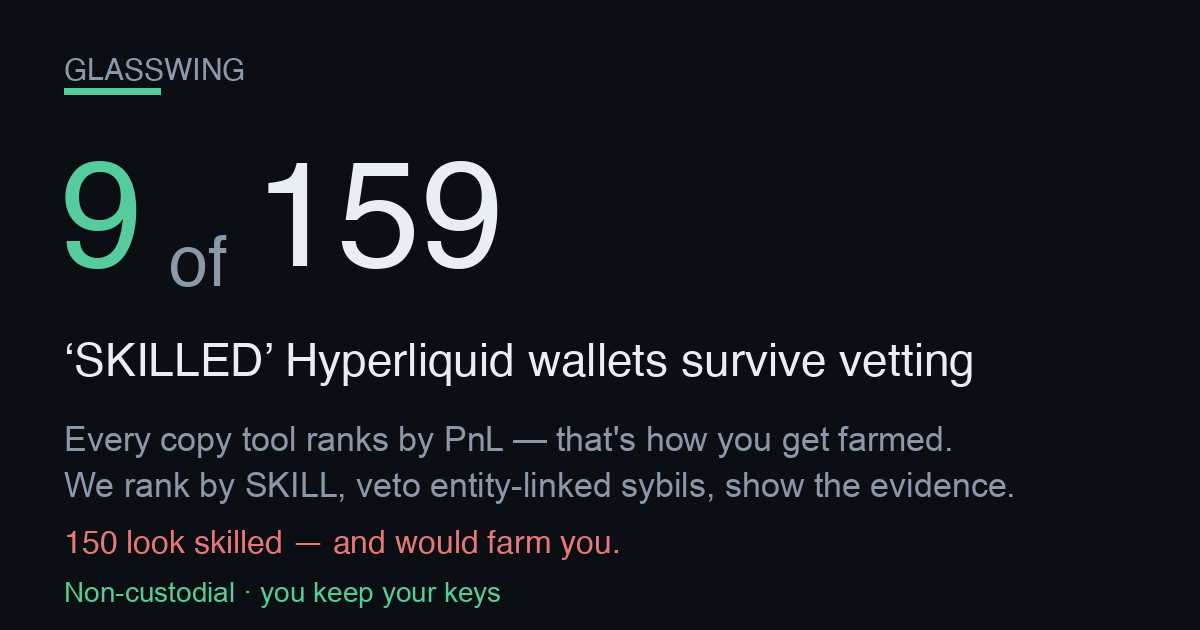
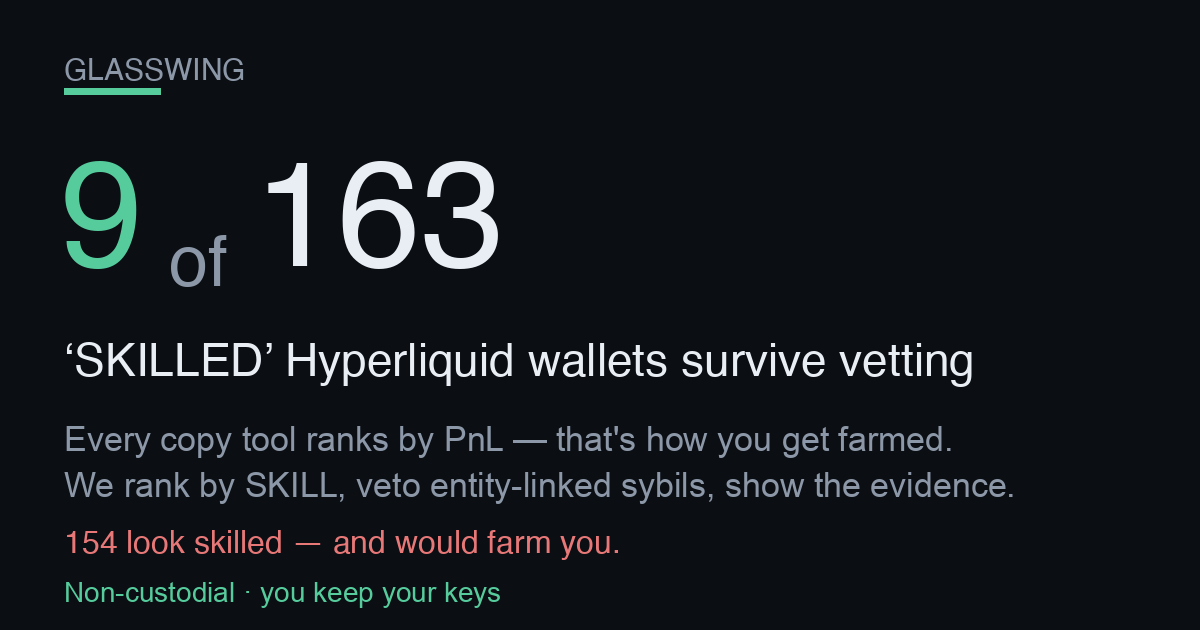
publish funnel 2026-08-06T07:08:23Z

Changed region(s): [[0.2775, 0.2413, 0.4317, 0.4222], [0.0617, 0.8444, 0.1233, 0.8746]]

diff --git a/screener.html b/screener.html
@@ -57,4 +57,4 @@ padding:11px 22px;font-size:15px;font-weight:800;border:1px solid var(--good)}
 footer{margin-top:34px;color:var(--muted);font-size:12px;line-height:1.6;
 border-top:1px solid var(--line);padding-top:16px}
 footer b{color:var(--ink)}
-</style></head><body><div class="wrap"><div class="nav"><a href="./index.html">&larr; Glasswing home</a><span class="sep">|</span><span>Edge Screener</span><span class="sep">|</span><a href="./dex.html">Copy a vetted leader</a></div><div class="hero"><h1>Hyperliquid Edge Screener</h1><div class="sub">Where&rsquo;s the carry, where a maker earns, and what&rsquo;s moving on Hyperliquid &mdash; live, computed from the public API. Bookmark it. Every number below is real and timestamped.</div><div class="stamp">Data as of <b>2026-08-05T18:58:52Z</b> &middot; rendered 2026-08-05T18:58:52Z &middot; 177 perps &middot; 91 HIP-3 (xyz) markets scanned</div></div><h2>Top funding &mdash; the carry table <span class="hint">perps ranked by annualized funding. Positive = longs pay shorts (a delta-neutral short earns it).</span></h2><div class="tblwrap"><table><thead><tr><th>Coin</th><th>Funding / hr</th><th>Annualized</th><th>Who pays</th><th>Open interest</th><th>24h volume</th></tr></thead><tbody><tr><td class="coin">SKR</td><td>-0.0296%</td><td class="neg">-259.8%</td><td><span class="tag shorts">shorts pay</span></td><td>$898K</td><td>$3.7M</td></tr><tr><td class="coin">HYPER<span class="tag thin" title="Low liquidity/OI &mdash; ADL &amp; liquidation risk; funding can flip">&#9888; thin</span></td><td>-0.0220%</td><td class="neg">-192.9%</td><td><span class="tag shorts">shorts pay</span></td><td>$330K</td><td>$313K</td></tr><tr><td class="coin">SUPER<span class="tag thin" title="Low liquidity/OI &mdash; ADL &amp; liquidation risk; funding can flip">&#9888; thin</span></td><td>-0.0132%</td><td class="neg">-115.5%</td><td><span class="tag shorts">shorts pay</span></td><td>$325K</td><td>$78K</td></tr><tr><td class="coin">MOVE<span class="tag thin" title="Low liquidity/OI &mdash; ADL &amp; liquidation risk; funding can flip">&#9888; thin</span></td><td>-0.0107%</td><td class="neg">-93.4%</td><td><span class="tag shorts">shorts pay</span></td><td>$650K</td><td>$191K</td></tr><tr><td class="coin">S<span class="tag thin" title="Low liquidity/OI &mdash; ADL &amp; liquidation risk; funding can flip">&#9888; thin</span></td><td>-0.0094%</td><td class="neg">-82.0%</td><td><span class="tag shorts">shorts pay</span></td><td>$705K</td><td>$145K</td></tr><tr><td class="coin">CASHCAT</td><td>+0.0056%</td><td class="pos">+49.3%</td><td><span class="tag longs">longs pay</span></td><td>$15.3M</td><td>$21.2M</td></tr><tr><td class="coin">ME<span class="tag thin" title="Low liquidity/OI &mdash; ADL &amp; liquidation risk; funding can flip">&#9888; thin</span></td><td>-0.0050%</td><td class="neg">-44.1%</td><td><span class="tag shorts">shorts pay</span></td><td>$189K</td><td>$98K</td></tr><tr><td class="coin">AIXBT<span class="tag thin" title="Low liquidity/OI &mdash; ADL &amp; liquidation risk; funding can flip">&#9888; thin</span></td><td>-0.0045%</td><td class="neg">-39.6%</td><td><span class="tag shorts">shorts pay</span></td><td>$454K</td><td>$113K</td></tr><tr><td class="coin">JUP</td><td>-0.0042%</td><td class="neg">-36.4%</td><td><span class="tag shorts">shorts pay</span></td><td>$6.6M</td><td>$1.2M</td></tr><tr><td class="coin">STBL<span class="tag thin" title="Low liquidity/OI &mdash; ADL &amp; liquidation risk; funding can flip">&#9888; thin</span></td><td>+0.0039%</td><td class="pos">+33.9%</td><td><span class="tag longs">longs pay</span></td><td>$2.3M</td><td>$126K</td></tr><tr><td class="coin">IMX<span class="tag thin" title="Low liquidity/OI &mdash; ADL &amp; liquidation risk; funding can flip">&#9888; thin</span></td><td>-0.0035%</td><td class="neg">-30.6%</td><td><span class="tag shorts">shorts pay</span></td><td>$961K</td><td>$140K</td></tr><tr><td class="coin">KAITO</td><td>+0.0034%</td><td class="pos">+30.0%</td><td><span class="tag longs">longs pay</span></td><td>$25.4M</td><td>$4.5M</td></tr></tbody></table></div><h2>Widest HIP-3 spreads &mdash; where a maker earns <span class="hint">xyz: markets by impact-price spread vs the ~0.6bps round-trip fee. A resting limit order captures the gap.</span></h2><div class="tblwrap"><table><thead><tr><th>Market</th><th>Spread</th><th>vs 0.6bps fee</th><th>Mid</th><th>24h volume</th></tr></thead><tbody><tr><td class="coin">xyz:BIRD<span class="tag gm">growth</span></td><td>344.0 bps</td><td class="pos">+343.4 bps</td><td>2.2473</td><td>$66K</td></tr><tr><td class="coin">xyz:GEV<span class="tag gm">growth</span></td><td>154.9 bps</td><td class="pos">+154.3 bps</td><td>1,032.05</td><td>$2K</td></tr><tr><td class="coin">xyz:UNITREE<span class="tag gm">growth</span></td><td>150.8 bps</td><td class="pos">+150.2 bps</td><td>71.4040</td><td>$1.8M</td></tr><tr><td class="coin">xyz:SOFTBANK<span class="tag gm">growth</span></td><td>96.6 bps</td><td class="pos">+96.0 bps</td><td>36.3170</td><td>$263K</td></tr><tr><td class="coin">xyz:KORU<span class="tag gm">growth</span></td><td>93.4 bps</td><td class="pos">+92.8 bps</td><td>18.8395</td><td>$52K</td></tr><tr><td class="coin">xyz:GIGADEV<span class="tag gm">growth</span></td><td>82.3 bps</td><td class="pos">+81.7 bps</td><td>56.9465</td><td>$2.3M</td></tr><tr><td class="coin">xyz:BOT<span class="tag gm">growth</span></td><td>65.3 bps</td><td class="pos">+64.7 bps</td><td>27.5950</td><td>$1.3M</td></tr><tr><td class="coin">xyz:MINIMAX<span class="tag gm">growth</span></td><td>62.6 bps</td><td class="pos">+62.0 bps</td><td>32.6880</td><td>$5.5M</td></tr><tr><td class="coin">xyz:SHAZ<span class="tag gm">growth</span></td><td>47.2 bps</td><td class="pos">+46.6 bps</td><td>56.8685</td><td>$760K</td></tr><tr><td class="coin">xyz:ZHIPU<span class="tag gm">growth</span></td><td>43.5 bps</td><td class="pos">+42.9 bps</td><td>130.8350</td><td>$5.0M</td></tr><tr><td class="coin">xyz:KIOXIA<span class="tag gm">growth</span></td><td>38.6 bps</td><td class="pos">+38.0 bps</td><td>344.0250</td><td>$14.6M</td></tr><tr><td class="coin">xyz:KR200<span class="tag gm">growth</span></td><td>29.7 bps</td><td class="pos">+29.1 bps</td><td>1,039.85</td><td>$2.1M</td></tr></tbody></table></div><h2>Momentum &amp; volume &mdash; what&rsquo;s moving <span class="hint">perps by 24h volume with the 24h price change (mark vs prior-day).</span></h2><div class="tblwrap"><table><thead><tr><th>Coin</th><th>24h volume</th><th>24h change</th><th>Mark</th></tr></thead><tbody><tr><td class="coin">BTC</td><td>$1.92B</td><td class="pos">+0.76%</td><td>64,758.00</td></tr><tr><td class="coin">ETH</td><td>$979.4M</td><td class="pos">+2.25%</td><td>1,916.50</td></tr><tr><td class="coin">HYPE</td><td>$278.3M</td><td class="pos">+3.49%</td><td>57.2370</td></tr><tr><td class="coin">SOL</td><td>$111.2M</td><td class="pos">+0.50%</td><td>74.4830</td></tr><tr><td class="coin">ZEC</td><td>$66.7M</td><td class="pos">+2.81%</td><td>519.8200</td></tr><tr><td class="coin">PUMP</td><td>$53.5M</td><td class="pos">+3.41%</td><td>0.002426</td></tr><tr><td class="coin">WLD</td><td>$23.4M</td><td class="neg">-1.72%</td><td>0.31783</td></tr><tr><td class="coin">CASHCAT</td><td>$21.2M</td><td class="pos">+51.84%</td><td>0.095783</td></tr><tr><td class="coin">XRP</td><td>$18.3M</td><td class="neg">-0.77%</td><td>1.0683</td></tr><tr><td class="coin">LIT</td><td>$15.3M</td><td class="pos">+1.38%</td><td>2.1190</td></tr><tr><td class="coin">UNI</td><td>$14.6M</td><td class="pos">+6.38%</td><td>4.1378</td></tr><tr><td class="coin">AAVE</td><td>$9.6M</td><td class="neg">-0.01%</td><td>90.0400</td></tr></tbody></table></div><div class="cta"><h2>These are the opportunities. Now copy the people who trade them.</h2><p class="lead">Spotting the carry and the spreads is the easy part &mdash; sizing, timing and risk are where most traders bleed. Copy the <b>skill-vetted</b> Hyperliquid leaders who actually trade these edges. Non-custodial: <b>you keep your keys and your funds</b> the entire time.</p><div class="row"><a class="btn" href="./index.html">See the vetted leaders &rarr;</a><a class="btn ghost" href="./dex.html">Start copying (non-custodial) &rarr;</a></div><div class="nc"><b>Non-custodial &amp; honest:</b> we never hold your keys or funds. Copying routes through a <b>0.01%</b> (1bp) on-chain builder fee &mdash; that is the only thing we ever charge, and it is the same fee shown on the copy page. Nothing on this screener is executed for you; it is information only.</div></div><footer><b>Not financial advice.</b> Funding rates, spreads and volumes are live snapshots that change every block; figures can be stale by the time you act. A high funding rate is <b>not free money</b> &mdash; the biggest rates sit on the thinnest, most crowded books (flagged &#9888; thin), where funding can flip against you and auto-deleveraging (ADL) or liquidation can close your position. &ldquo;Spread&rdquo; here is the impact-price spread (a conservative maker signal), not a guaranteed fill. HIP-3 markets are experimental. Do your own research and size responsibly. Glasswing is <b>non-custodial</b> &mdash; we never take custody of your keys or funds.</footer></div></body></html>
+</style></head><body><div class="wrap"><div class="nav"><a href="./index.html">&larr; Glasswing home</a><span class="sep">|</span><span>Edge Screener</span><span class="sep">|</span><a href="./dex.html">Copy a vetted leader</a></div><div class="hero"><h1>Hyperliquid Edge Screener</h1><div class="sub">Where&rsquo;s the carry, where a maker earns, and what&rsquo;s moving on Hyperliquid &mdash; live, computed from the public API. Bookmark it. Every number below is real and timestamped.</div><div class="stamp">Data as of <b>2026-08-06T07:06:46Z</b> &middot; rendered 2026-08-06T07:06:46Z &middot; 177 perps &middot; 91 HIP-3 (xyz) markets scanned</div></div><h2>Top funding &mdash; the carry table <span class="hint">perps ranked by annualized funding. Positive = longs pay shorts (a delta-neutral short earns it).</span></h2><div class="tblwrap"><table><thead><tr><th>Coin</th><th>Funding / hr</th><th>Annualized</th><th>Who pays</th><th>Open interest</th><th>24h volume</th></tr></thead><tbody><tr><td class="coin">SKR</td><td>-0.0466%</td><td class="neg">-407.9%</td><td><span class="tag shorts">shorts pay</span></td><td>$868K</td><td>$2.2M</td></tr><tr><td class="coin">VINE<span class="tag thin" title="Low liquidity/OI &mdash; ADL &amp; liquidation risk; funding can flip">&#9888; thin</span></td><td>+0.0237%</td><td class="pos">+207.9%</td><td><span class="tag longs">longs pay</span></td><td>$308K</td><td>$430K</td></tr><tr><td class="coin">ACE<span class="tag thin" title="Low liquidity/OI &mdash; ADL &amp; liquidation risk; funding can flip">&#9888; thin</span></td><td>-0.0228%</td><td class="neg">-199.5%</td><td><span class="tag shorts">shorts pay</span></td><td>$413K</td><td>$995K</td></tr><tr><td class="coin">SUPER<span class="tag thin" title="Low liquidity/OI &mdash; ADL &amp; liquidation risk; funding can flip">&#9888; thin</span></td><td>-0.0125%</td><td class="neg">-109.6%</td><td><span class="tag shorts">shorts pay</span></td><td>$324K</td><td>$135K</td></tr><tr><td class="coin">AVNT<span class="tag thin" title="Low liquidity/OI &mdash; ADL &amp; liquidation risk; funding can flip">&#9888; thin</span></td><td>-0.0120%</td><td class="neg">-105.5%</td><td><span class="tag shorts">shorts pay</span></td><td>$657K</td><td>$192K</td></tr><tr><td class="coin">ME<span class="tag thin" title="Low liquidity/OI &mdash; ADL &amp; liquidation risk; funding can flip">&#9888; thin</span></td><td>-0.0103%</td><td class="neg">-89.9%</td><td><span class="tag shorts">shorts pay</span></td><td>$201K</td><td>$97K</td></tr><tr><td class="coin">SAND<span class="tag thin" title="Low liquidity/OI &mdash; ADL &amp; liquidation risk; funding can flip">&#9888; thin</span></td><td>-0.0082%</td><td class="neg">-72.0%</td><td><span class="tag shorts">shorts pay</span></td><td>$308K</td><td>$107K</td></tr><tr><td class="coin">MNT</td><td>+0.0077%</td><td class="pos">+67.4%</td><td><span class="tag longs">longs pay</span></td><td>$1.6M</td><td>$348K</td></tr><tr><td class="coin">AXS<span class="tag thin" title="Low liquidity/OI &mdash; ADL &amp; liquidation risk; funding can flip">&#9888; thin</span></td><td>-0.0067%</td><td class="neg">-58.7%</td><td><span class="tag shorts">shorts pay</span></td><td>$400K</td><td>$260K</td></tr><tr><td class="coin">JUP</td><td>-0.0067%</td><td class="neg">-58.6%</td><td><span class="tag shorts">shorts pay</span></td><td>$6.6M</td><td>$1.1M</td></tr><tr><td class="coin">W<span class="tag thin" title="Low liquidity/OI &mdash; ADL &amp; liquidation risk; funding can flip">&#9888; thin</span></td><td>-0.0067%</td><td class="neg">-58.3%</td><td><span class="tag shorts">shorts pay</span></td><td>$1.5M</td><td>$239K</td></tr><tr><td class="coin">HYPER<span class="tag thin" title="Low liquidity/OI &mdash; ADL &amp; liquidation risk; funding can flip">&#9888; thin</span></td><td>-0.0064%</td><td class="neg">-56.4%</td><td><span class="tag shorts">shorts pay</span></td><td>$304K</td><td>$255K</td></tr></tbody></table></div><h2>Widest HIP-3 spreads &mdash; where a maker earns <span class="hint">xyz: markets by impact-price spread vs the ~0.6bps round-trip fee. A resting limit order captures the gap.</span></h2><div class="tblwrap"><table><thead><tr><th>Market</th><th>Spread</th><th>vs 0.6bps fee</th><th>Mid</th><th>24h volume</th></tr></thead><tbody><tr><td class="coin">xyz:BIRD<span class="tag gm">growth</span></td><td>347.3 bps</td><td class="pos">+346.7 bps</td><td>2.3241</td><td>$102K</td></tr><tr><td class="coin">xyz:BOT<span class="tag gm">growth</span></td><td>127.5 bps</td><td class="pos">+126.9 bps</td><td>27.5625</td><td>$890K</td></tr><tr><td class="coin">xyz:PURRDAT</td><td>100.7 bps</td><td class="pos">+100.1 bps</td><td>6.7175</td><td>$2.0M</td></tr><tr><td class="coin">xyz:SOFTBANK<span class="tag gm">growth</span></td><td>99.7 bps</td><td class="pos">+99.1 bps</td><td>35.0230</td><td>$280K</td></tr><tr><td class="coin">xyz:GEV<span class="tag gm">growth</span></td><td>88.8 bps</td><td class="pos">+88.2 bps</td><td>1,019.75</td><td>$6K</td></tr><tr><td class="coin">xyz:KR200<span class="tag gm">growth</span></td><td>74.0 bps</td><td class="pos">+73.4 bps</td><td>987.0000</td><td>$1.5M</td></tr><tr><td class="coin">xyz:UNITREE<span class="tag gm">growth</span></td><td>73.2 bps</td><td class="pos">+72.6 bps</td><td>72.2000</td><td>$3.2M</td></tr><tr><td class="coin">xyz:SHAZ<span class="tag gm">growth</span></td><td>71.4 bps</td><td class="pos">+70.8 bps</td><td>57.6290</td><td>$689K</td></tr><tr><td class="coin">xyz:QNT<span class="tag gm">growth</span></td><td>60.5 bps</td><td class="pos">+59.9 bps</td><td>56.9140</td><td>$735K</td></tr><tr><td class="coin">xyz:ZM<span class="tag gm">growth</span></td><td>54.0 bps</td><td class="pos">+53.4 bps</td><td>100.5800</td><td>$271K</td></tr><tr><td class="coin">xyz:GIGADEV<span class="tag gm">growth</span></td><td>45.3 bps</td><td class="pos">+44.7 bps</td><td>57.0880</td><td>$1.2M</td></tr><tr><td class="coin">xyz:KIOXIA<span class="tag gm">growth</span></td><td>42.8 bps</td><td class="pos">+42.2 bps</td><td>309.9400</td><td>$14.2M</td></tr></tbody></table></div><h2>Momentum &amp; volume &mdash; what&rsquo;s moving <span class="hint">perps by 24h volume with the 24h price change (mark vs prior-day).</span></h2><div class="tblwrap"><table><thead><tr><th>Coin</th><th>24h volume</th><th>24h change</th><th>Mark</th></tr></thead><tbody><tr><td class="coin">BTC</td><td>$1.63B</td><td class="pos">+1.04%</td><td>64,824.10</td></tr><tr><td class="coin">ETH</td><td>$838.6M</td><td class="pos">+2.43%</td><td>1,912.20</td></tr><tr><td class="coin">HYPE</td><td>$252.5M</td><td class="neg">-1.82%</td><td>55.8160</td></tr><tr><td class="coin">SOL</td><td>$104.6M</td><td class="pos">+0.18%</td><td>74.0120</td></tr><tr><td class="coin">ZEC</td><td>$53.8M</td><td class="neg">-2.00%</td><td>507.5100</td></tr><tr><td class="coin">CASHCAT</td><td>$46.1M</td><td class="pos">+26.55%</td><td>0.11103</td></tr><tr><td class="coin">PUMP</td><td>$34.6M</td><td class="neg">-5.17%</td><td>0.002346</td></tr><tr><td class="coin">XRP</td><td>$22.0M</td><td class="neg">-1.43%</td><td>1.0509</td></tr><tr><td class="coin">WLD</td><td>$21.1M</td><td class="neg">-3.56%</td><td>0.31154</td></tr><tr><td class="coin">UNI</td><td>$17.1M</td><td class="pos">+2.14%</td><td>4.0430</td></tr><tr><td class="coin">LIT</td><td>$10.4M</td><td class="pos">+1.41%</td><td>2.1706</td></tr><tr><td class="coin">BNB</td><td>$8.8M</td><td class="neg">-0.84%</td><td>594.8900</td></tr></tbody></table></div><div class="cta"><h2>These are the opportunities. Now copy the people who trade them.</h2><p class="lead">Spotting the carry and the spreads is the easy part &mdash; sizing, timing and risk are where most traders bleed. Copy the <b>skill-vetted</b> Hyperliquid leaders who actually trade these edges. Non-custodial: <b>you keep your keys and your funds</b> the entire time.</p><div class="row"><a class="btn" href="./index.html">See the vetted leaders &rarr;</a><a class="btn ghost" href="./dex.html">Start copying (non-custodial) &rarr;</a></div><div class="nc"><b>Non-custodial &amp; honest:</b> we never hold your keys or funds. Copying routes through a <b>0.01%</b> (1bp) on-chain builder fee &mdash; that is the only thing we ever charge, and it is the same fee shown on the copy page. Nothing on this screener is executed for you; it is information only.</div></div><footer><b>Not financial advice.</b> Funding rates, spreads and volumes are live snapshots that change every block; figures can be stale by the time you act. A high funding rate is <b>not free money</b> &mdash; the biggest rates sit on the thinnest, most crowded books (flagged &#9888; thin), where funding can flip against you and auto-deleveraging (ADL) or liquidation can close your position. &ldquo;Spread&rdquo; here is the impact-price spread (a conservative maker signal), not a guaranteed fill. HIP-3 markets are experimental. Do your own research and size responsibly. Glasswing is <b>non-custodial</b> &mdash; we never take custody of your keys or funds.</footer></div></body></html>

diff --git a/track.html b/track.html
@@ -62,7 +62,7 @@ font-weight:600;font-size:14px}
 <div class="wrap">
   <div class="hero">
     <h1>Self-verifying on-chain track record</h1>
-    <div class="big">$295.98</div>
+    <div class="big">$310.68</div>
     <div class="sub">current on-chain equity (perp + vault + spot USDC)</div>
     <div class="addr">0xbe6C1b09662BbE52CC93279D103Feb27985DdBc1</div>
     <div class="stage early">18 days live — EARLY / NOT YET A MATURE RECORD</div>
@@ -72,25 +72,25 @@ font-weight:600;font-size:14px}
 
   <h2>On-chain figures <span style="color:var(--muted);font-weight:400;font-size:13px">
   &mdash; every one reproducible from the public info API</span></h2>
-  <table><tbody><tr><td class="k">On-chain equity (perp + vault + spot USDC)</td><td class="v">$295.98</td></tr><tr><td class="k">Perp account value</td><td class="v">$244.92</td></tr><tr><td class="k">Vault equity</td><td class="v">$50.51</td></tr><tr><td class="k">Spot USDC</td><td class="v">$0.55</td></tr><tr><td class="k">Withdrawable</td><td class="v">$186.14</td></tr></tbody></table>
+  <table><tbody><tr><td class="k">On-chain equity (perp + vault + spot USDC)</td><td class="v">$310.68</td></tr><tr><td class="k">Perp account value</td><td class="v">$259.43</td></tr><tr><td class="k">Vault equity</td><td class="v">$50.70</td></tr><tr><td class="k">Spot USDC</td><td class="v">$0.55</td></tr><tr><td class="k">Withdrawable</td><td class="v">$186.95</td></tr></tbody></table>
 
-  <h2>Vault deposits (on-chain)</h2><table><thead><tr><th>Vault address</th><th>Our equity</th></tr></thead><tbody><tr><td class="mono">0x2431edfcb662e6ff6deab113cc91878a0b53fb0f</td><td class="v">$0.01</td></tr><tr><td class="mono">0x697bc3dd77539fa84156d0e1c95287ea5524fd6b</td><td class="v">$25.99</td></tr><tr><td class="mono">0x8825e6ed11c7f9c0874579c9f4bba192b9e81c8f</td><td class="v">$0.12</td></tr><tr><td class="mono">0xc71f5a493b937e4b1798b86510630336a6dfd804</td><td class="v">$24.40</td></tr></tbody></table>
+  <h2>Vault deposits (on-chain)</h2><table><thead><tr><th>Vault address</th><th>Our equity</th></tr></thead><tbody><tr><td class="mono">0x2431edfcb662e6ff6deab113cc91878a0b53fb0f</td><td class="v">$0.01</td></tr><tr><td class="mono">0x697bc3dd77539fa84156d0e1c95287ea5524fd6b</td><td class="v">$26.21</td></tr><tr><td class="mono">0x8825e6ed11c7f9c0874579c9f4bba192b9e81c8f</td><td class="v">$0.12</td></tr><tr><td class="mono">0xc71f5a493b937e4b1798b86510630336a6dfd804</td><td class="v">$24.36</td></tr></tbody></table>
 
   <h2>Performance <span style="color:var(--muted);font-weight:400;font-size:13px">
   &mdash; honest stage, no annualization</span></h2>
-  <table><tbody><tr><td class="k">Days live (our formal record)</td><td class="v">18</td></tr><tr><td class="k">Maturity</td><td class="v">EARLY / NOT YET A MATURE RECORD</td></tr><tr><td class="k">Current real strategy income / day</td><td class="v">$0.0001</td></tr><tr><td class="k">Cumulative net income (if attributed)</td><td class="v">$0.6599</td></tr><tr><td class="k">Annualized APR</td><td class="v">intentionally NOT computed (record too young)</td></tr></tbody></table>
+  <table><tbody><tr><td class="k">Days live (our formal record)</td><td class="v">18</td></tr><tr><td class="k">Maturity</td><td class="v">EARLY / NOT YET A MATURE RECORD</td></tr><tr><td class="k">Current real strategy income / day</td><td class="v">$-0.0595</td></tr><tr><td class="k">Cumulative net income (if attributed)</td><td class="v">$0.2668</td></tr><tr><td class="k">Annualized APR</td><td class="v">intentionally NOT computed (record too young)</td></tr></tbody></table>
 
   <h2>Strategy arms <span style="color:var(--muted);font-weight:400;font-size:13px">
   &mdash; internal marks, cross-checkable against chain equity</span></h2>
-  <table><thead><tr><th>Arm</th><th>Status</th><th>Real / day</th><th>Note</th></tr></thead><tbody><tr><td class="v">carry</td><td><span class="badge off">—</span></td><td class="v">$0.0001</td><td class="k"></td></tr><tr><td class="v">copy</td><td><span class="badge live">live</span></td><td class="v">$0.0000</td><td class="k"></td></tr><tr><td class="v">builder</td><td><span class="badge off">—</span></td><td class="v">$0.0000</td><td class="k">proven live; $0 until distributed (∝ users&#x27; volume)</td></tr></tbody></table>
+  <table><thead><tr><th>Arm</th><th>Status</th><th>Real / day</th><th>Note</th></tr></thead><tbody><tr><td class="v">carry</td><td><span class="badge off">—</span></td><td class="v">$-0.0595</td><td class="k"></td></tr><tr><td class="v">copy</td><td><span class="badge live">live</span></td><td class="v">$0.0000</td><td class="k"></td></tr><tr><td class="v">builder</td><td><span class="badge off">—</span></td><td class="v">$0.0000</td><td class="k">proven live; $0 until distributed (∝ users&#x27; volume)</td></tr></tbody></table>
 
   <h2>Reproduce it</h2>
   <div class="verify"><h3>Verify this yourself</h3><p>These are PUBLIC calls. Run them yourself against the address below and you will re-derive every on-chain figure on this page. equity_usd = perp accountValue + vault equity + spot USDC. Endpoint: https://api.hyperliquid.xyz/info</p><div class="cn">clearinghouseState &rarr; marginSummary.accountValue (perp value), withdrawable, marginSummary.totalMarginUsed</div><pre>curl -s -X POST https://api.hyperliquid.xyz/info -H &#x27;Content-Type: application/json&#x27; -d &#x27;{&quot;type&quot;: &quot;clearinghouseState&quot;, &quot;user&quot;: &quot;0xbe6C1b09662BbE52CC93279D103Feb27985DdBc1&quot;}&#x27;</pre><div class="cn">userVaultEquities &rarr; sum of each entry&#x27;s equity (our vault deposits)</div><pre>curl -s -X POST https://api.hyperliquid.xyz/info -H &#x27;Content-Type: application/json&#x27; -d &#x27;{&quot;type&quot;: &quot;userVaultEquities&quot;, &quot;user&quot;: &quot;0xbe6C1b09662BbE52CC93279D103Feb27985DdBc1&quot;}&#x27;</pre><div class="cn">spotClearinghouseState &rarr; balances[] where coin==USDC -&gt; total (spot USDC)</div><pre>curl -s -X POST https://api.hyperliquid.xyz/info -H &#x27;Content-Type: application/json&#x27; -d &#x27;{&quot;type&quot;: &quot;spotClearinghouseState&quot;, &quot;user&quot;: &quot;0xbe6C1b09662BbE52CC93279D103Feb27985DdBc1&quot;}&#x27;</pre></div>
 
   <footer>
     <div>Self-verifying: every on-chain figure is reproducible by querying Hyperliquid&#x27;s public info API for the stated address. Internal daily marks are cross-checkable against on-chain equity. EARLY-STAGE record — not a mature track record, not an APR promise, not financial advice. Past performance != future results.</div>
-    <div class="stamp">Generated at 2026-08-05T18:58:27Z &middot; internal marks
-    mtime 2026-08-05T16:59:04Z &middot; static receipt, no live
+    <div class="stamp">Generated at 2026-08-06T07:05:54Z &middot; internal marks
+    mtime 2026-08-06T04:59:24Z &middot; static receipt, no live
     authority — this page never trades or arms.</div>
   </footer>
 </div>

diff --git a/index.html b/index.html
@@ -3,8 +3,8 @@
 <head>
 <meta charset="utf-8">
 <meta name="viewport" content="width=device-width, initial-scale=1">
-<title>9 of 159 SKILLED Hyperliquid wallets survive vetting</title>
-<meta name="description" content="9 of 159 leaderboard-SKILLED Hyperliquid wallets survive vetting. Copy only the survivors, non-custodial — you keep your keys and funds.">
+<title>9 of 163 SKILLED Hyperliquid wallets survive vetting</title>
+<meta name="description" content="9 of 163 leaderboard-SKILLED Hyperliquid wallets survive vetting. Copy only the survivors, non-custodial — you keep your keys and funds.">
 <link rel="canonical" href="https://dynobit.github.io/glasswing/">
 <meta name="robots" content="index,follow">
 <meta name="theme-color" content="#0b0e13">
@@ -14,14 +14,14 @@
      head, not this. og:url is the canonical Pages home so every share resolves here. -->
 <meta property="og:type" content="website">
 <meta property="og:site_name" content="Glasswing">
-<meta property="og:title" content="9 of 159 SKILLED Hyperliquid wallets survive vetting">
+<meta property="og:title" content="9 of 163 SKILLED Hyperliquid wallets survive vetting">
 <meta property="og:description" content="Every copy tool ranks leaders by PnL — which is how you get farmed. This ranks by SKILL, then vetoes entity-linked sybils, and shows the evidence for every reject. Non-custodial: you keep your keys.">
 <meta property="og:url" content="https://dynobit.github.io/glasswing/">
 <meta property="og:image" content="https://dynobit.github.io/glasswing/og-card.png">
 <meta property="og:image:width" content="1200">
 <meta property="og:image:height" content="630">
 <meta name="twitter:card" content="summary_large_image">
-<meta name="twitter:title" content="9 of 159 SKILLED Hyperliquid wallets survive vetting">
+<meta name="twitter:title" content="9 of 163 SKILLED Hyperliquid wallets survive vetting">
 <meta name="twitter:description" content="Skill-ranked (not PnL-ranked) HL copy-leaders, entity-linked sybils vetoed with evidence. Non-custodial.">
 <meta name="twitter:image" content="https://dynobit.github.io/glasswing/og-card.png">
 <style>
@@ -135,18 +135,18 @@ footer .nc{color:var(--good);font-weight:600}
 
   <!-- 1. HERO — the shareable hook (screenshot-worthy) -->
   <div class="hero">
-    <h1><span class="big">9 of 159</span> &lsquo;SKILLED&rsquo;
+    <h1><span class="big">9 of 163</span> &lsquo;SKILLED&rsquo;
     Hyperliquid wallets survive vetting</h1>
-    <div class="sub">The other <span class="trap">150</span> look skilled on a
+    <div class="sub">The other <span class="trap">154</span> look skilled on a
     raw copy leaderboard but would farm you &mdash; here are the
-    <span class="trap">150</span> that would. Entity-linked sybils,
-    wash-traded track records, or simply unscreened. 5.7% survive.
-    Universe: 1333 scored wallets.</div>
+    <span class="trap">154</span> that would. Entity-linked sybils,
+    wash-traded track records, or simply unscreened. 5.5% survive.
+    Universe: 1371 scored wallets.</div>
   </div>
 
   <!-- 2. THE WEDGE — the marketing (why us, not any other copy tool) -->
   <div class="wedge"><span class="them">Every other copy tool ranks all
-    159 by PnL and calls it a leaderboard.</span> We are the only one that
+    163 by PnL and calls it a leaderboard.</span> We are the only one that
     <b>flags the entity-linked and farming wallets with on-chain evidence</b> &mdash;
     transfer-graph linkage between wallets and arXiv memecoin farm-features &mdash;
     and shows you only the 9 that survive. A high PnL is exactly what a
@@ -268,7 +268,7 @@ footer .nc{color:var(--good);font-weight:600}
   <footer>
     <div class="nc">Non-custodial: we never hold your keys or funds. No server, no backend. Your browser talks only to Hyperliquid&#x27;s public API.</div>
     <div>Advisory. Skill = sign-randomization null vs luck. Entity veto = public transfer-graph linkage. Farm screen = arXiv:2601.08641 features (memecoin thresholds, HL-uncalibrated). Follower-realizable PnL is NOT yet proven — a PRE-COMMITTED forward test is in progress (0/2 windows, earliest 2026-08-13); the copyability claim publishes only when the pre-registered windows close, so it cannot be discovery-mined. Exit-alpha shown is advisory. Not financial advice.</div>
-    <div class="stamp">Generated at 2026-08-05T18:58:38Z &middot; single-file funnel,
+    <div class="stamp">Generated at 2026-08-06T07:06:13Z &middot; single-file funnel,
     no live authority. In-browser order signing is IMPLEMENTED (real secp256k1 +
     keccak + msgpack EIP-712 from a pinned CDN) but UNVALIDATED against Hyperliquid:
     mainnet is blocked until a testnet order is proven accepted.</div>

diff --git a/dex.html b/dex.html
@@ -112,8 +112,8 @@ footer .nc{color:var(--good);font-weight:600}
     funds and your keys the whole time. Two signatures in your own wallet, an
     ephemeral in-browser agent key that can trade but never withdraw, and a
     client-side loop that mirrors only the
-    <b>9 of 159</b> vetted survivors
-    (universe: 1333 scored wallets). No server, no backend.</div>
+    <b>9 of 163</b> vetted survivors
+    (universe: 1371 scored wallets). No server, no backend.</div>
     <div class="tag">static bundle &middot; IPFS-publishable &middot; revenue accrues on-chain</div>
   </div>
 
@@ -217,7 +217,7 @@ footer .nc{color:var(--good);font-weight:600}
   <footer>
     <div class="nc">Pure DEX, self-custodial. No server, no backend, no key we ever hold. Your browser talks only to Hyperliquid&#x27;s public API.</div>
     <div>Advisory. Skill = sign-randomization null vs luck. Entity veto = public transfer-graph linkage. Farm screen = arXiv:2601.08641 features (memecoin thresholds, HL-uncalibrated). Follower-realizable PnL is NOT yet proven — a PRE-COMMITTED forward test is in progress (0/2 windows, earliest 2026-08-13); the copyability claim publishes only when the pre-registered windows close, so it cannot be discovery-mined. Exit-alpha shown is advisory. Not financial advice.</div>
-    <div class="stamp">Generated at 2026-08-05T18:58:38Z &middot; static,
+    <div class="stamp">Generated at 2026-08-06T07:06:13Z &middot; static,
     self-custodial surface, no live authority. In-browser order signing is
     IMPLEMENTED (real secp256k1 + keccak + msgpack EIP-712 from a pinned CDN) but
     UNVALIDATED against Hyperliquid: mainnet is blocked until a testnet order is
